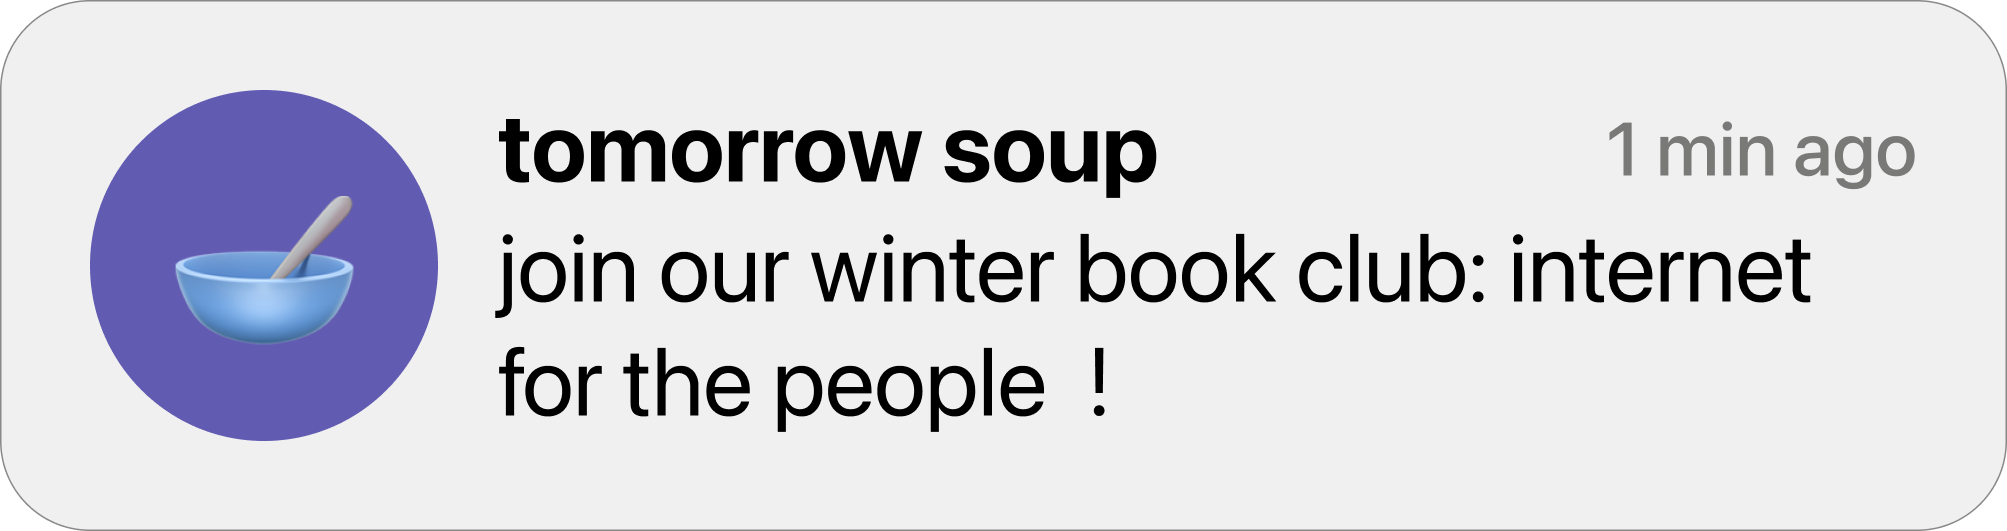
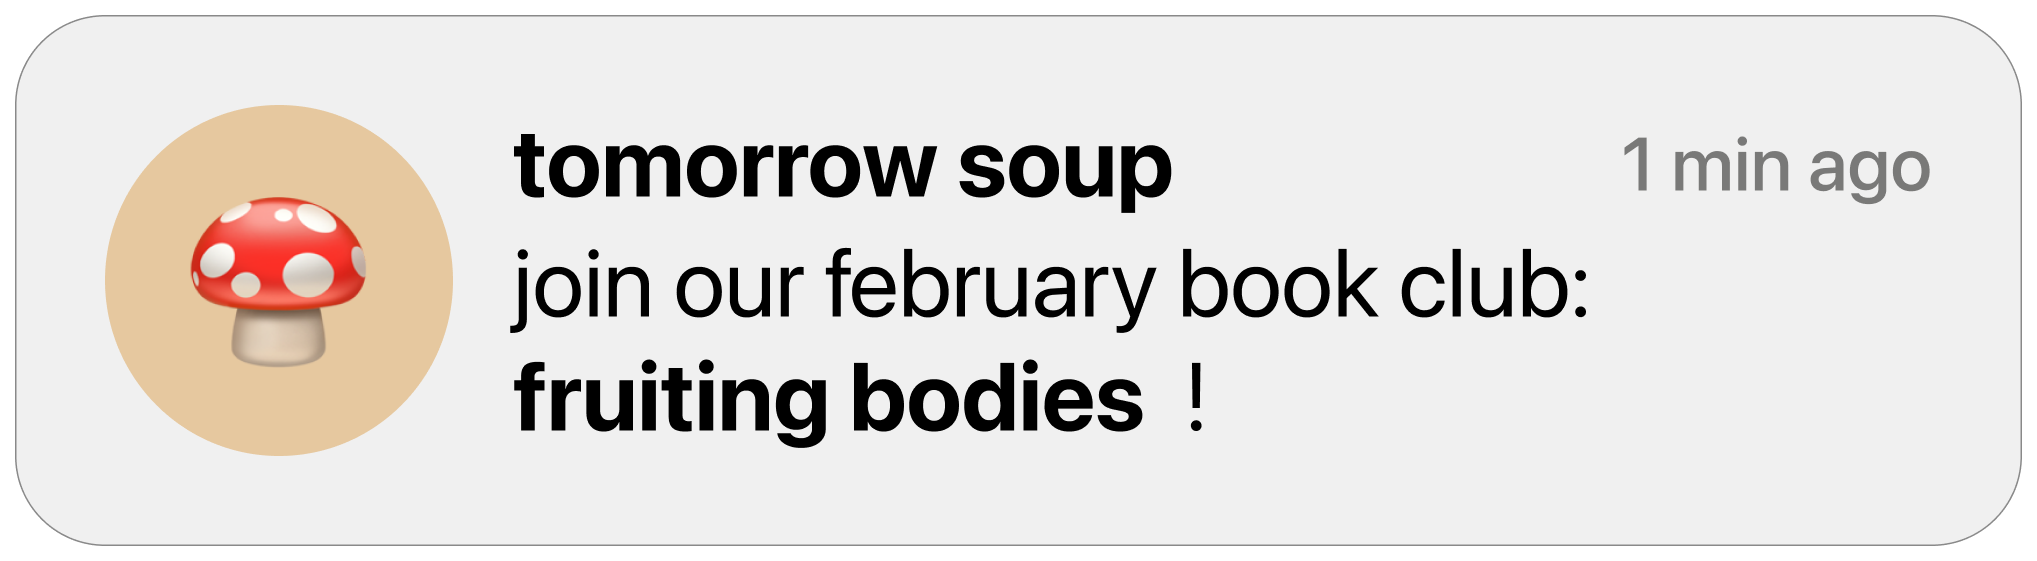
new book club !

diff --git a/index.html b/index.html
@@ -37,9 +37,9 @@
         <p id="home-text-2">we hope you'll take a look around, by hovering, dragging, and clicking on the objects above</p>
     </div>
 
-    <!-- <div class="notif">
-        <a href="https://rayaward.notion.site/tomorrow-soup-winter-2022-book-club-79d816be27c44cf1933220f2b194df82"><img src="img/book-club-notif.png" alt="a notification telling users to join the winter book club: internet for the people" id="notif-img" class="home-fixed"></a>
-    </div> -->
+    <div class="notif">
+        <a href="https://www.notion.so/rayaward/tomorrow-soup-book-club-february-2023-c460f206d5d040578e3cd9bd31f57db0" target="_blank"><img src="img/book-club-notif.png" alt="a notification telling users to join the winter book club: internet for the people" id="notif-img" class="home-fixed"></a>
+    </div>
 
     <script src="js/jquery-3.6.0.min.js"></script>
     <script src="https://cdnjs.cloudflare.com/ajax/libs/jqueryui/1.13.2/jquery-ui.min.js" integrity="sha512-57oZ/vW8ANMjR/KQ6Be9v/+/h6bq9/l3f0Oc7vn6qMqyhvPd1cvKBRWWpzu0QoneImqr2SkmO4MSqU+RpHom3Q==" crossorigin="anonymous" referrerpolicy="no-referrer"></script>
